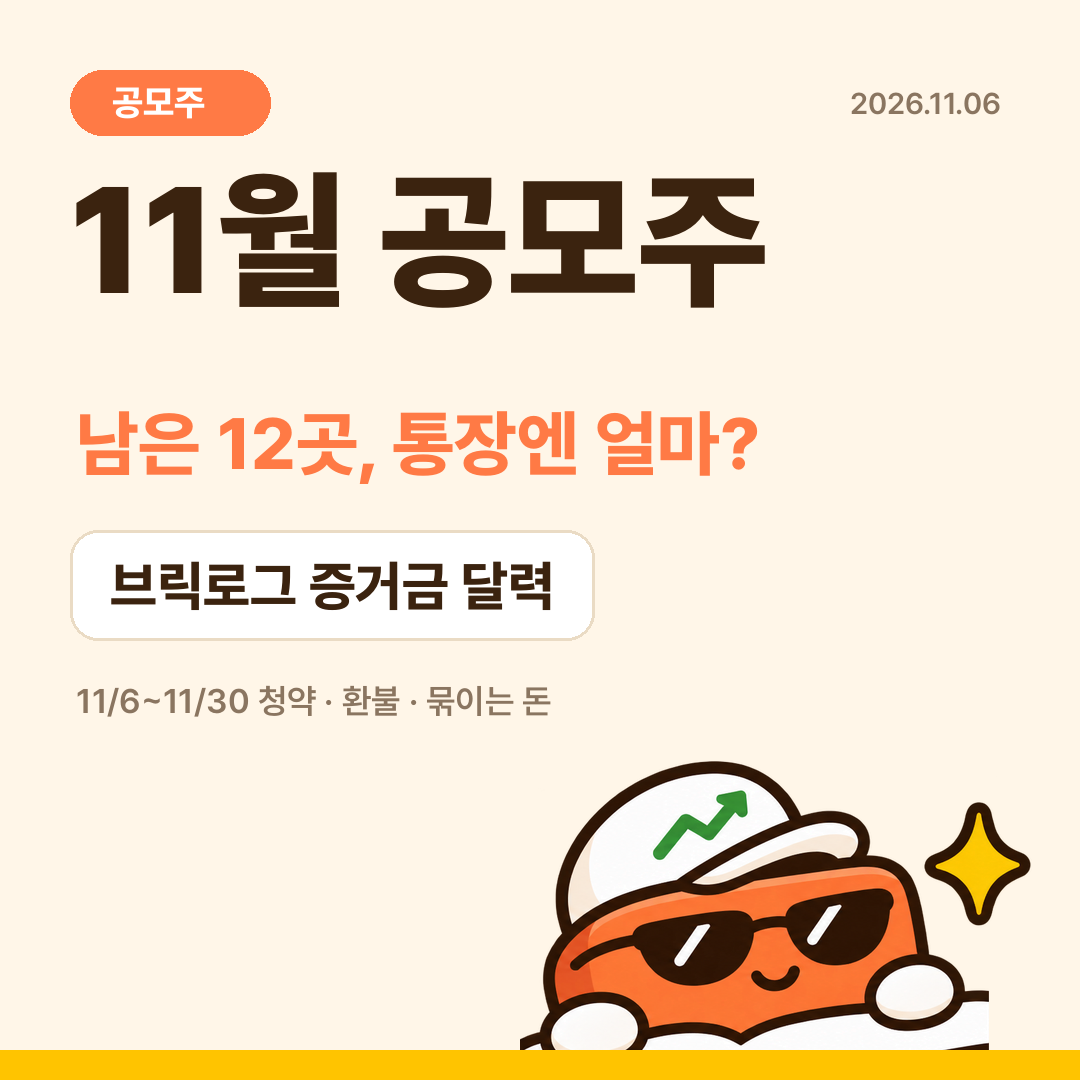
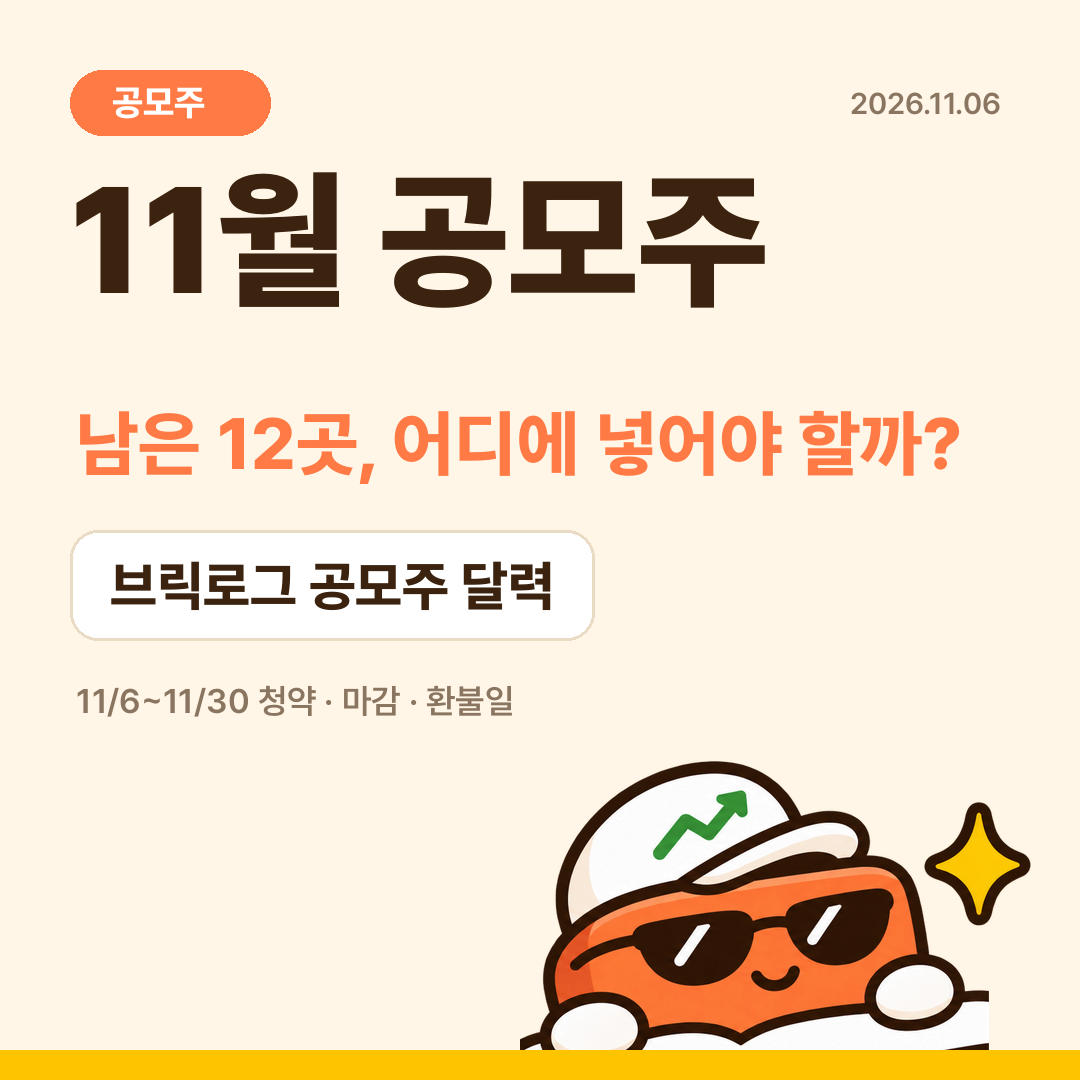
Replace November margin chart with IPO calendar card

diff --git a/scripts/make_month_cards.py b/scripts/make_month_cards.py
@@ -3,7 +3,7 @@
 사용법:
     python3 scripts/make_month_cards.py data/ipo/2026-11-month.json
 
-입력 JSON 하나로 썸네일 + 일정 카드 + 증거금 달력 카드를 ipo/<slug>/ 에 만든다.
+입력 JSON 하나로 썸네일 + 달력 카드를 ipo/<slug>/ 에 만든다.
 """
 import json
 import os
@@ -12,70 +12,99 @@ from datetime import date, timedelta
 
 from PIL import Image, ImageDraw
 
-from make_cards import BEIGE, BROWN, LINE, MUTED, ORANGE, ROOT, SOFT_ORANGE, WHITE, F, ensure_font, fit, header, rr, thumbnail
+from make_cards import BEIGE, BROWN, GREEN, LINE, MUTED, ORANGE, ROOT, WHITE, F, ensure_font, fit, header, rr, thumbnail
 
 W = 1080
-ROW = 96
 
 
-def schedule(c, out):
-    rows = c["schedule"]
-    H = 250 + ROW * len(rows) + 50
+def split_name(name):
+    """칸에 안 들어가는 긴 종목명은 두 줄로 나눈다."""
+    return [name] if len(name) <= 6 else [name[:len(name) // 2], name[len(name) // 2:]]
+
+
+def parse_day(text):
+    month, day = text.split("/")
+    return date(2026, int(month), int(day))
+
+
+def calendar_entries(c):
+    """날짜별 청약(증권사 포함)·마감·환불 항목을 모은다."""
+    subs, refunds = {}, {}
+    for span, name, broker, refund in c["schedule"]:
+        first, last = span.split("~")
+        start = parse_day(first)
+        end = start.replace(day=int(last)) if "/" not in last else parse_day(last)
+        day = start
+        while day <= end:
+            if day.weekday() < 5:
+                subs.setdefault(day, []).append((name, broker, day == end))
+            day += timedelta(1)
+        refunds.setdefault(parse_day(refund), []).append(name)
+    return subs, refunds
+
+
+def calendar_card(c, out):
+    subs, refunds = calendar_entries(c)
+    x0, cell_w, top = 40, 200, 250
+    line, chip_gap, chip_pad = 28, 8, 12
+
+    def chip_h(name):
+        return len(split_name(name)) * line + 26 + chip_pad
+
+    weeks = []
+    first = date(2026, 11, 2)
+    last = max(list(subs) + list(refunds))
+    while first <= last:
+        days = [first + timedelta(i) for i in range(5)]
+        h = 60
+        for day in days:
+            used = sum(chip_h(n) + chip_gap for n, _, _ in subs.get(day, []))
+            names = refunds.get(day, [])
+            if names:
+                used += 34 + sum(len(split_name(n)) * 26 for n in names) + 14
+            h = max(h, 60 + used)
+        weeks.append((days, max(h, 150)))
+        first += timedelta(7)
+
+    H = top + sum(h for _, h in weeks) + 110
     img = Image.new("RGBA", (W, H), BEIGE); d = ImageDraw.Draw(img)
-    header(d, img, c["schedule_title"], c["name"], W)
-    for x, label in ((70, "청약"), (250, "종목"), (620, "증권사"), (900, "환불")):
-        d.text((x, 186), label, font=F("SemiBold", 26), fill=MUTED)
-    y = 240
-    for date, name, broker, refund in rows:
-        rr(d, (40, y, W - 40, y + ROW - 10), 18, fill=WHITE, outline=LINE, width=2)
-        d.text((70, y + 28), date, font=F("ExtraBold", 28), fill=ORANGE)
-        fs = fit(d, name, "ExtraBold", 32, 350)
-        d.text((250, y + 26), name, font=F("ExtraBold", fs), fill=BROWN)
-        fs = fit(d, broker, "SemiBold", 26, 260)
-        d.text((620, y + 30), broker, font=F("SemiBold", fs), fill=MUTED)
-        d.text((900, y + 28), refund, font=F("ExtraBold", 28), fill=BROWN)
-        y += ROW
-    img.convert("RGB").save(f"{out}/card_schedule.png")
-
-
-def margins(c):
-    """종목별 증거금(50%)과 날짜별 묶이는 돈. 마감일에 넣고 환불일 아침에 돌아온다고 본다."""
-    bricks = [(n, date.fromisoformat(a), date.fromisoformat(b), p * q // 2) for n, a, b, p, q in c["bricks"]]
-    days = [bricks[0][1] + timedelta(i) for i in range((bricks[-1][2] - bricks[0][1]).days + 1)]
-    tied = {d: sum(m for _, a, b, m in bricks if a <= d < b) for d in days}
-    return bricks, days, tied
-
-
-def bricks_card(c, out):
-    bricks, days, tied = margins(c)
-    row, top, left, right = 62, 250, 280, W - 60
-    day_w = (right - left) / len(days)
-    peak = max(tied.values())
-    H = top + row * len(bricks) + 190
-    img = Image.new("RGBA", (W, H), BEIGE); d = ImageDraw.Draw(img)
-    header(d, img, c["bricks_title"], c["name"], W)
-    x_of = lambda day: left + (day - days[0]).days * day_w
-    bottom = top + row * len(bricks)
-    for day in days:
-        if tied[day] == peak:  # 가장 많이 묶이는 날 표시
-            d.rectangle((x_of(day), top - 10, x_of(day) + day_w, bottom), fill=SOFT_ORANGE)
-    for day in days:
-        if day.weekday() == 0 or day == days[0]:
-            d.line((x_of(day), top - 10, x_of(day), bottom), fill=LINE, width=2)
-            d.text((x_of(day) + 2, top - 50), f"{day.month}/{day.day}", font=F("SemiBold", 24), fill=MUTED)
-    for i, (name, a, b, m) in enumerate(bricks):
-        y = top + i * row
-        fs = fit(d, name, "SemiBold", 26, 205)
-        d.text((60, y + 14), name, font=F("SemiBold", fs), fill=BROWN)
-        rr(d, (x_of(a), y + 8, x_of(b), y + row - 8), 8, fill=ORANGE, outline=BROWN, width=2)
-    total = sum(m for *_, m in bricks)
-    rr(d, (40, bottom + 30, W - 40, bottom + 140), 22, fill=ORANGE)
-    msg = f"12곳 합계 {total:,}원 → 가장 많이 묶이는 날 {peak:,}원"
-    fs = fit(d, msg, "ExtraBold", 36, W - 140)
-    tw = d.textlength(msg, font=F("ExtraBold", fs))
-    d.text(((W - tw) / 2, bottom + 62), msg, font=F("ExtraBold", fs), fill=WHITE)
-    img.convert("RGB").save(f"{out}/card_bricks.png")
-    return total, peak, tied
+    header(d, img, c["calendar_title"], c["name"], W)
+    for i, label in enumerate("월화수목금"):
+        tw = d.textlength(label, font=F("SemiBold", 28))
+        d.text((x0 + i * cell_w + (cell_w - tw) / 2, 190), label, font=F("SemiBold", 28), fill=MUTED)
+    y = top
+    for days, h in weeks:
+        for i, day in enumerate(days):
+            cx = x0 + i * cell_w
+            d.rectangle((cx, y, cx + cell_w, y + h), fill=WHITE, outline=LINE, width=2)
+            label = f"{day.month}/{day.day}"
+            d.text((cx + 12, y + 10), label, font=F("ExtraBold", 28), fill=BROWN)
+            cy = y + 52
+            for name, broker, is_last in subs.get(day, []):
+                ch = chip_h(name)
+                rr(d, (cx + 8, cy, cx + cell_w - 8, cy + ch), 12, fill=BROWN if is_last else ORANGE)
+                ty = cy + 6
+                for part in split_name(name):
+                    d.text((cx + 18, ty), part, font=F("ExtraBold", 24), fill=WHITE)
+                    ty += line
+                fs = fit(d, broker, "Medium", 20, cell_w - 36) if d.textlength(broker, font=F("Medium", 20)) > cell_w - 36 else 20
+                d.text((cx + 18, ty), broker, font=F("Medium", fs), fill="#FFE9D9")
+                cy += ch + chip_gap
+            names = refunds.get(day, [])
+            if names:
+                d.text((cx + 12, cy + 4), "환불", font=F("ExtraBold", 24), fill=GREEN)
+                ty = cy + 34
+                for name in names:
+                    for part in split_name(name):
+                        d.text((cx + 12, ty), part, font=F("SemiBold", 22), fill=GREEN)
+                        ty += 26
+        y += h
+    lx = x0
+    for color, label in ((ORANGE, "청약"), (BROWN, "청약 마감일"), (GREEN, "환불")):
+        rr(d, (lx, y + 34, lx + 34, y + 68), 8, fill=color)
+        d.text((lx + 44, y + 34), label, font=F("SemiBold", 26), fill=BROWN)
+        lx += 44 + d.textlength(label, font=F("SemiBold", 26)) + 44
+    img.convert("RGB").save(f"{out}/card_calendar.png")
 
 
 def main(path):
@@ -84,11 +113,8 @@ def main(path):
         c = json.load(f)
     out = os.path.join(ROOT, "ipo", c["slug"])
     os.makedirs(out, exist_ok=True)
-    thumbnail(c, out); schedule(c, out)
-    total, peak, tied = bricks_card(c, out)
-    print("saved to", out, f"(합계 {total:,}, 최대 {peak:,})")
-    for day, amount in tied.items():
-        print(day, f"{amount:,}")
+    thumbnail(c, out); calendar_card(c, out)
+    print("saved to", out)
 
 
 if __name__ == "__main__":
